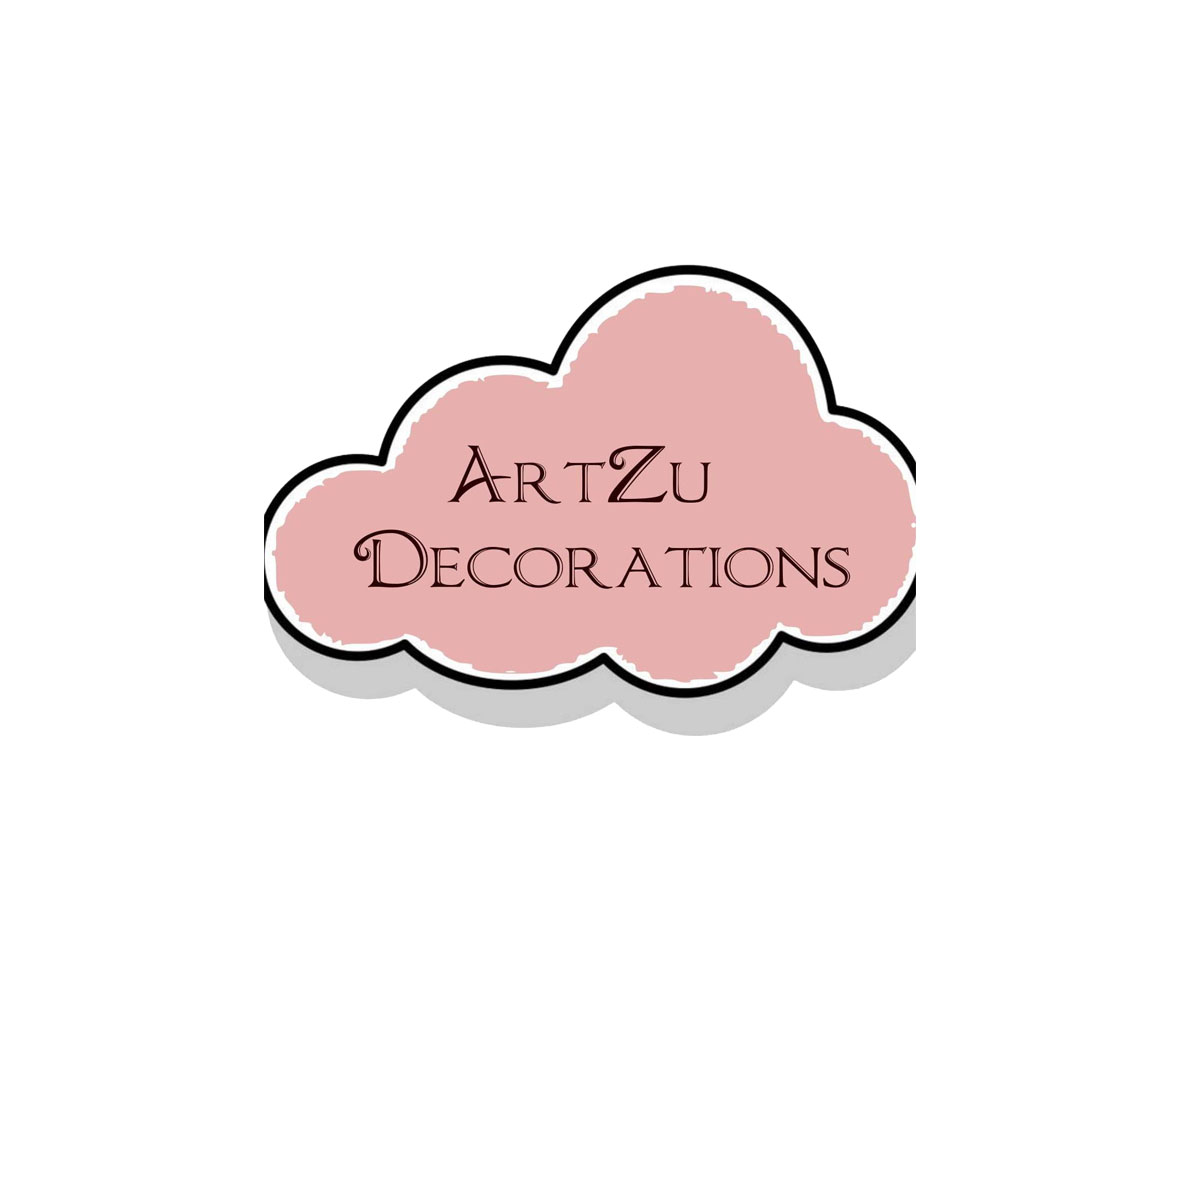
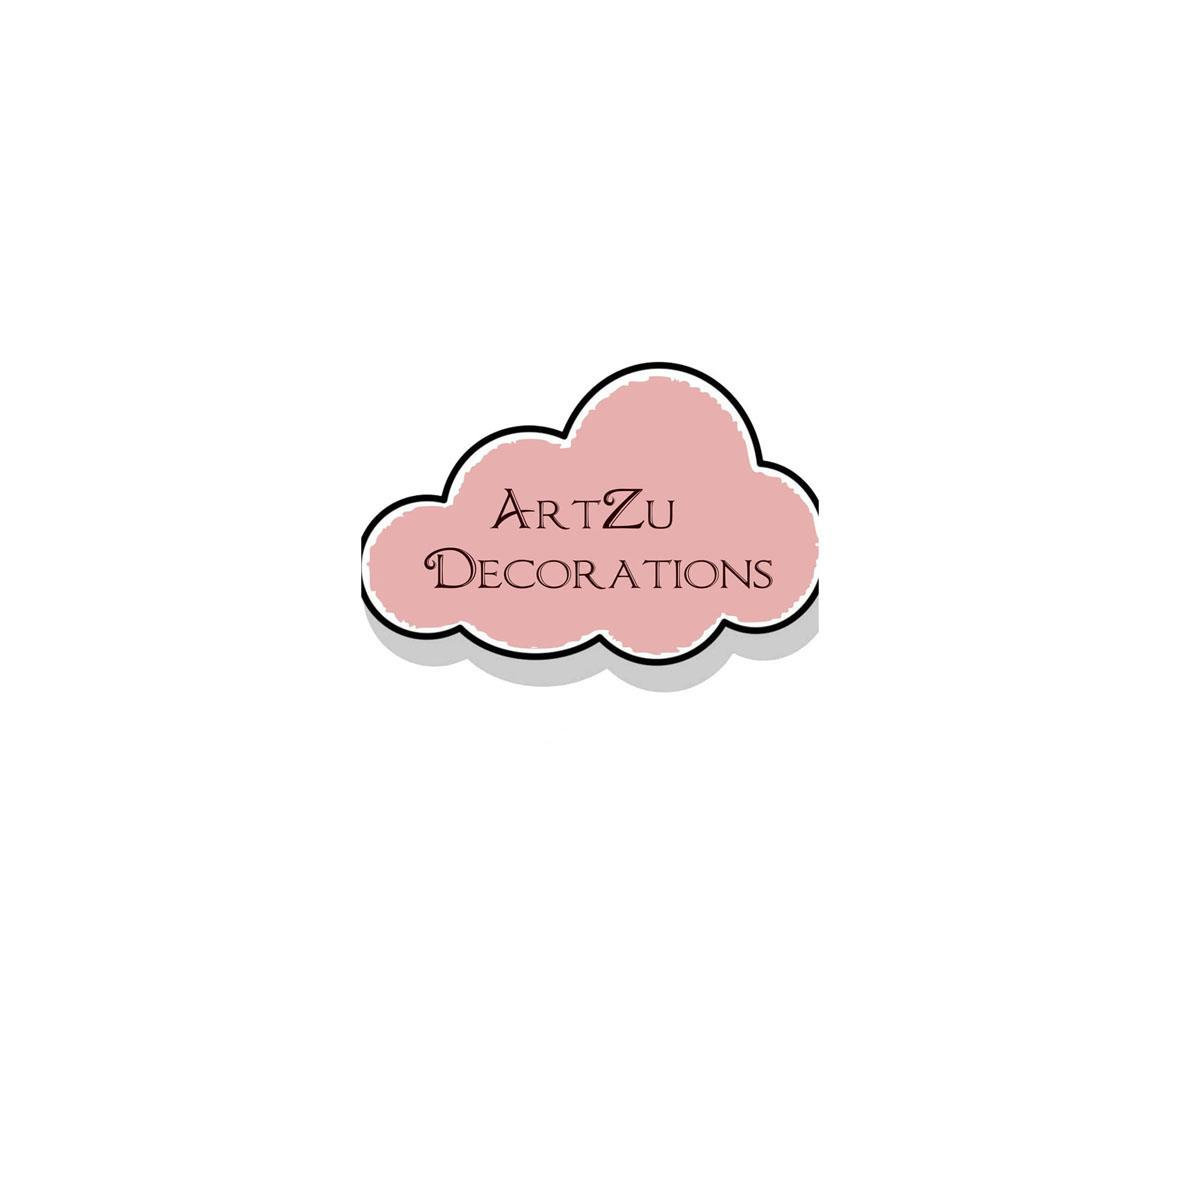
Responsibility problem1

Changed region(s): [[0.2136, 0.2136, 0.7932, 0.6407]]

diff --git a/SklepArtZu/wwwroot/css/site.css b/SklepArtZu/wwwroot/css/site.css
@@ -33,35 +33,61 @@ nav {
 }
 
 
-#imagearea {
+.imagearea {
     /*margin-left: 0px;*/
     background-image: url(../lib/images/AAA.jpg);
-    background-position: center center;
-    background-repeat: no-repeat;
-    background-size: cover;
+    -webkit-background-size: 40%;
+    -moz-background-size: 40%;
+    -o-background-size: 40%;
+    background-size: 40%;
     background-attachment: fixed;
-    background-color: #464646;
-    height: 970px;
-    /*min-width: 640px;
-    min-height: 1024px;*/
+    /*width: 1922px;
+    height: 1080px;*/
+    /*background-size: 10% 10%;*/
+    /*max-width: 100%;
+    max-height: 100%;*/
+    height: 100%;
+    width: 100%;
+    overflow: hidden;
+    background-repeat: no-repeat;
+    background-position: center center;
+    /* = ( 600 / 1600 ) x 100 */
+    /*height: 470px;*/
+    /*min-width: 320px;*/
+    /*min-height: 320px;*/
     /*max-height: 1240px;*/
     /*;
     max-width: 1920px;
     height: auto;*/
-    
     /*opacity: 1;*/
 }
 
+. /*imagearea img {
+    width: 100px;
+    height: 100px;
+}*/
 #imagearea1 {
-    background-image: url(../lib/images/white.jpg);
-    background-position: center center;
-    background-repeat: no-repeat;
-    background-size: cover;
-    background-attachment: fixed;
-    background-color: #464646;
-    height: 970px;
-    text-align:right;
-    margin-top: 23%;
+    /*background-image: url(../lib/images/white.jpg);*/
+    /*-webkit-background-size: 40%;
+    -moz-background-size: 40%;
+    -o-background-size: 40%;
+    background-size: 40%;*/
+    /*background-attachment: fixed;*/
+    /*width: 1922px;
+    height: 1080px;*/
+    /*background-size: 10% 10%;*/
+    /*max-width: 100%;
+    max-height: 100%;*/
+    /*background-repeat: no-repeat;
+    background-position: center center;*/
+    background-color: #FFFFD2;
+    height: 100%;
+    width: 100%;
+
+    overflow: hidden;
+    text-align: right;
+    /*min-height: 320px;*/
+    /*margin-top: 23%;*/
 }
 
     #imagearea1 img {
@@ -69,11 +95,12 @@ nav {
     }
 
 
-body .container-fluid .MainCointainer #imagearea img {
+body .container-fluid .MainCointainer .imagearea img {
     height: 107px;
     width: 107px;
-    margin-left: 50%;
-    margin-top:45%;
-    object-position: 50% 50%;
-    /*margin-top:auto 500px;*/
+
+    margin-left: 45%;
+    position: center;
+    object-position: 50% 70%;
+    margin-top: 45%;
 }

diff --git a/SklepArtZu/wwwroot/js/site.js b/SklepArtZu/wwwroot/js/site.js
@@ -16,3 +16,10 @@ $('a[href^="#"]').on('click', function (event) {
     }
 
 });
+
+
+//$('.banner').css({ 'height': (($(window).height())) +'px'});
+
+//$(window).on('resize', function () {
+//    $('.banner').css({ 'height': (($(window).height())) +'px'});
+//});
